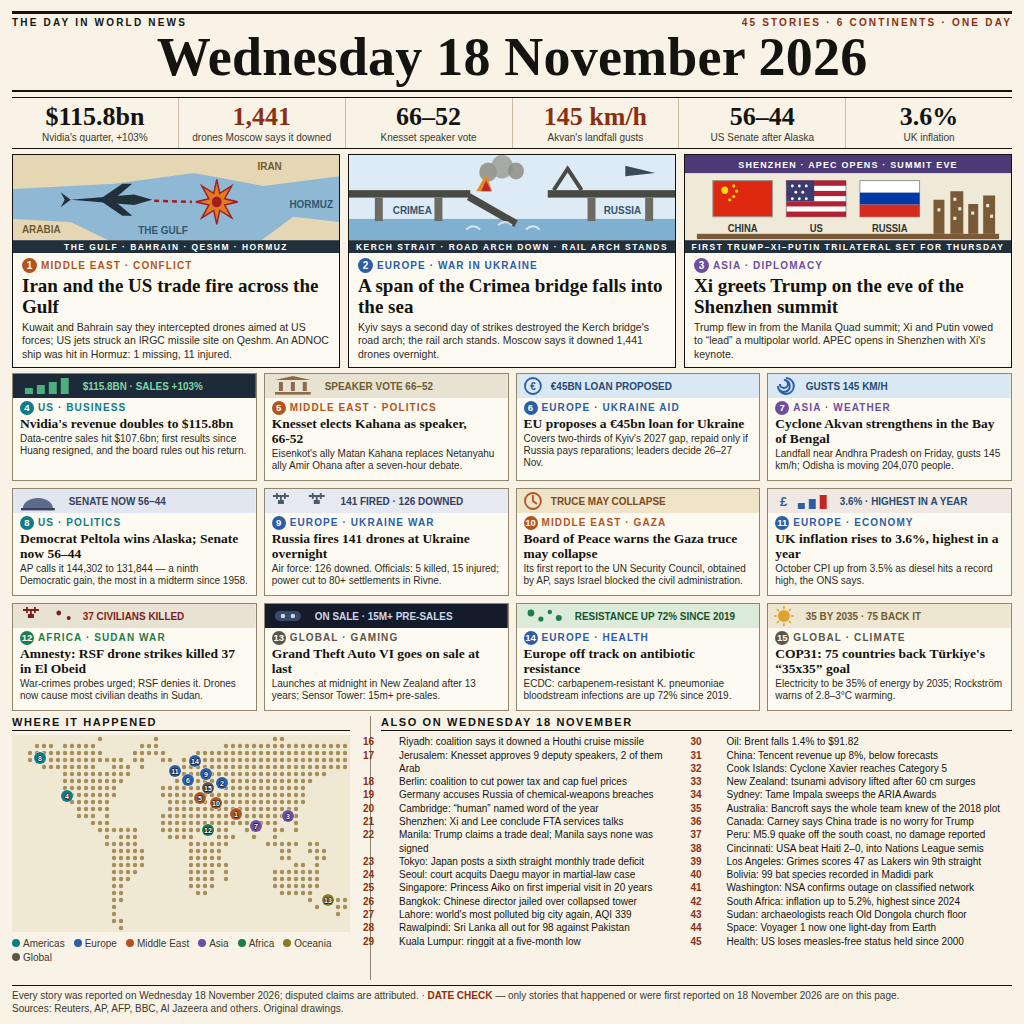
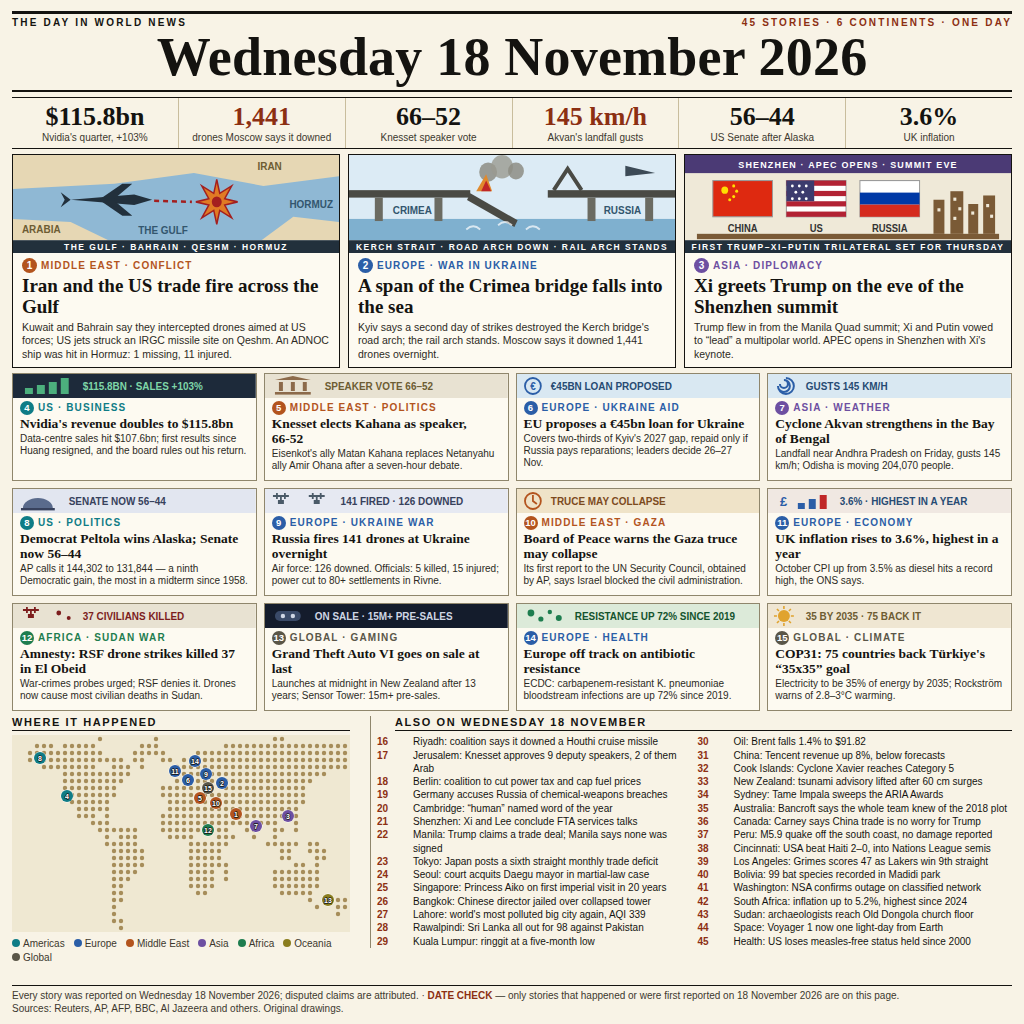
v3.1: fix ALSO divider position and extent

Changed region(s): [[0.3438, 0.6875, 0.9688, 0.9375]]

diff --git a/page.html b/page.html
@@ -56,7 +56,7 @@
   /* ---------- bottom ---------- */
   .bottom { display:flex; gap:20px; flex:1; min-height:0; }
   .mapbox { width:338px; flex:none; }
-  .alsobox { flex:1; border-left:1.5px solid #8f866c; padding-left:10px; }
+  .alsobox { flex:1; align-self:flex-start; border-left:1.5px solid #8f866c; padding-left:24px; }
   .btitle { font-size:11px; font-weight:bold; letter-spacing:1.6px; border-bottom:1.5px solid #141310; padding-bottom:2px; margin-bottom:4px; }
   .legend { display:flex; flex-wrap:wrap; gap:3px 9px; font-size:10px; color:#3c382e; margin-top:2px; }
   .legend i { display:inline-block; width:8px; height:8px; border-radius:50%; margin-right:3px; }
